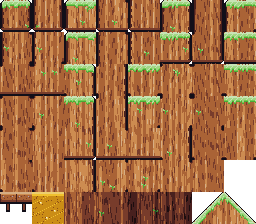
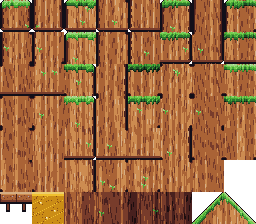
Pass 503: shade and vary the grass fringe so it stops reading as a flat band
The green/cyan moss fringe on every ground tile (cap_moss) painted its top rows
in a single brightest shade, so a run of floor tiles read as one flat bright
band — the pass-500 independent-grade defect. It now paints lit grass: the
brightest shade only on the tips of taller blades, a ramp stepping down to a
dark root line where the grass meets the soil, and a per-tile value shift
(lush/normal/sparse) so a floor reads as patches, not a stripe.

Code-first: only the eight moss-capped tilesets change (the other zones and the
backdrops are byte-only Pillow churn and were reverted). Reviewed by eye at 1x
and 4x in deep_roots, source_hall and lampwick. Bible 12.7 added; three
mutation-checked cap_moss guards added to tools/art/test_tilegen.py. Full local
suite 8398 checks, 0 failed.

diff --git a/tools/art/test_tilegen.py b/tools/art/test_tilegen.py
@@ -1,12 +1,13 @@
 #!/usr/bin/env python3
-"""Guards for the backdrop gradient (design bible 12.6).
+"""Guards for the backdrop gradient (bible 12.6) and the moss cap (bible 12.7).
 
-These cover the pure gradient helpers in tilegen that shape every far layer's
-sky, so the moire dot-grid the independent grade flagged (pass 497/500/501) stays
-fixed. The game test suite is Godot-only and CI does not run Python unit tests;
-run this guard with `python tools/art/test_tilegen.py` after touching the
-gradient. Exit code is non-zero on the first failure, so it mutation-checks by a
-plain re-run.
+These cover the pure tilegen helpers that shape every far layer's sky (so the
+moire dot-grid the independent grade flagged at passes 497/500/501 stays fixed)
+and the grass fringe (`cap_moss`), so the flat bright-green band the pass-500
+grade flagged keeps its shaded ramp, dark root line and per-tile variation. The
+game test suite is Godot-only and CI does not run Python unit tests; run this
+guard with `python tools/art/test_tilegen.py` after touching either. Exit code
+is non-zero on the first failure, so it mutation-checks by a plain re-run.
 """
 import sys
 from pathlib import Path
@@ -75,6 +76,55 @@ def test_the_dither_is_noise_not_a_rigid_grid():
         matches = sum(1 for x in range(len(row) - shift) if row[x] == row[x + shift])
         rate = matches / (len(row) - shift)
         assert rate < 0.9, f"shift {shift}: {rate:.2f} of pixels repeat — reads as a grid, not grain"
+
+
+def _moss_indices(seed, light="leaf", top=5):
+    """Every (x, y, shade-index) of `light` painted by one cap_moss tile."""
+    img = tg.Image.new("RGBA", (tg.T, tg.T), tg.CLEAR)
+    tg.cap_moss(img, 0, 0, seed, 0, tg.T, light, None, top)
+    names = {v[:3]: k for k, v in tg.PAL.items()}
+    out = []
+    for x in range(tg.T):
+        for y in range(tg.T):
+            px = img.getpixel((x, y))
+            if px[3] == 0:
+                continue
+            name = names.get(px[:3])
+            if name is None:
+                continue
+            ramp, i = name.rsplit("-", 1)
+            if ramp == light:
+                out.append((x, y, int(i)))
+    return out
+
+
+def test_cap_moss_is_a_shaded_ramp():
+    # The fringe must span several shades, not paint one flat bright band
+    # (mutating the body to a single shade fails here).
+    idx = {k for _, _, k in _moss_indices(11)}
+    assert len(idx) >= 3, f"the moss cap ramps through >=3 shades, got {sorted(idx)}"
+
+
+def test_cap_moss_darkens_to_a_root_line():
+    # Grass is lit at the tips and dark where it roots into the soil: the lowest
+    # painted row is darker than the highest. (Flattening the ramp fails this.)
+    px = _moss_indices(11)
+    top_y = min(y for _, y, _ in px)
+    bot_y = max(y for _, y, _ in px)
+    top_mean = sum(k for _, y, k in px if y == top_y) / sum(1 for _, y, _ in px if y == top_y)
+    bot_mean = sum(k for _, y, k in px if y == bot_y) / sum(1 for _, y, _ in px if y == bot_y)
+    assert bot_mean < top_mean, f"the root line ({bot_mean:.1f}) is darker than the tips ({top_mean:.1f})"
+
+
+def test_cap_moss_varies_per_tile():
+    # The per-tile value shift must actually change a tile's overall brightness,
+    # so a run of ground tiles reads as patches, not one stripe. Across a dozen
+    # seeds the mean shade should span ~2 steps; setting tilt to 0 fails this.
+    means = []
+    for seed in range(11, 11 + 12):
+        px = _moss_indices(seed)
+        means.append(sum(k for _, _, k in px) / len(px))
+    assert max(means) - min(means) >= 1.0, f"per-tile brightness barely moves: {min(means):.2f}..{max(means):.2f}"
 
 
 def main():

diff --git a/tools/art/tilegen.py b/tools/art/tilegen.py
@@ -312,23 +312,37 @@ def paint_bough(img, ox, oy, seed, ramp):
 
 
 def cap_moss(img, ox, oy, seed, x0, x1, light="leaf", glow=None, top=5):
-    """A ragged cap of moss over the top edge: blades of uneven height, a lit
-    fringe, and a dark under-edge where it meets the ground."""
+    """A ragged cap of moss over the top edge: blades of uneven height whose
+    tips catch the light, a body that deepens shade by shade into a dark root
+    line where it meets the ground, and a per-tile value shift so a run of
+    ground tiles never paints one flat bright band."""
+    def shade(k):
+        return c(f"{light}-{max(0, top - k)}")
+    # A per-tile value shift (lush / normal / sparse patches) breaks the uniform
+    # stripe that read as a single bright fringe across a whole floor: about half
+    # the tiles sit a shade deeper and a fifth two shades deeper.
+    t = hash2(seed, 0, 44)
+    tilt = 2 if t > 0.80 else 1 if t > 0.45 else 0
     for x in range(x0, x1):
         depth = 6 + (2 if hash2(x // 2, 0, seed) > 0.55 else 0) + (1 if hash2(x, 5, seed) > 0.85 else 0)
         blade = 1 if hash2(x, 6, seed) > 0.7 else 0
+        # Only taller, lit blades catch the brightest shade on their very tip.
+        tip_lit = blade and hash2(x, 8, seed) > 0.5
+        col_jit = 1 if hash2(x, 4, seed) > 0.78 else 0  # the odd deeper blade
         for y in range(depth):
             if y == 0 and blade == 0 and hash2(x, 7, seed) > 0.6:
                 continue  # a ragged top
-            if y <= 1:
-                col = f"{light}-{top}"
-            elif y < depth - 2:
-                col = f"{light}-{top - 1}" if (x + y) % 5 else f"{light}-{top}"
+            if y == 0 and tip_lit:
+                k = 0               # a lit tip, the only truly bright pixels
+            elif y <= 1:
+                k = 1               # upper blade
+            elif y < depth - 3:
+                k = 2 if (x + y) % 4 else 1   # mid body, mostly a shade down
             elif y < depth - 1:
-                col = f"{light}-{top - 2}"
+                k = 3               # lower body, in shadow
             else:
-                col = f"{light}-{top - 3}"
-            img.putpixel((ox + x, oy + y), c(col))
+                k = 4               # a dark root line into the soil
+            img.putpixel((ox + x, oy + y), shade(k + tilt + col_jit))
         if glow and hash2(x // 2, 3, seed) > 0.88:
             img.putpixel((ox + x, oy + depth), c(glow))
             if x % 2 == 0:

diff --git a/docs/loop/pass-503.md b/docs/loop/pass-503.md
@@ -1,0 +1,96 @@
+# Pass 503: shade and vary the grass fringe on floors and ledges
+
+## Category
+
+Art / World, from the independent-grade queue — not the rubric rotation. Art outranks the rotation
+when the queue holds no fresh Sean note (none this pass; all three notes are answered), and the
+headline art item (the PixelLab guardian bases) is **blocked**: three bases already wait for Sean's OK
+(Haar Wyrm, Thane Vorrund, Drowned Warden), the limit of three, and no note frees a slot. The hero
+sprite (the grade's top defect) would be a fourth base, also over the limit. So this pass takes the
+next unblocked, code-first grade defect — one of the two pass-502's "Next" named for pass 503 — the
+**flat grass fringe**, flagged at the pass-500 grade:
+
+> The grass fringe on floors and ledges is one flat bright-green band with no shading or variation,
+> cheapening otherwise-moody rooms (haar_lampwick, deep_roots, source_hall). Give it a shaded ramp,
+> a darker root/under edge and a little per-tile variation; code-first.
+
+No generations and no base-approval gate; it touches every moss-capped zone.
+
+## What was built
+
+The green (or, in water zones, cyan) fringe on the top of every ground tile is the code-drawn
+`cap_moss` in `tools/art/tilegen.py`, shared by all eight moss-capped zones (gym, heartwood, haar,
+boughs, vorrhallow, evercrown, sunken, spires). The old version painted its **top two rows in the
+single brightest shade** of the light ramp and only dropped a shade near the base — so a run of ground
+tiles rendered as one uniform bright stripe. That is the band the grade saw.
+
+`cap_moss` now paints lit grass, not a stripe:
+
+- **A value ramp down each blade.** Only the taller, lit blades carry the brightest shade on their very
+  **tip**; the body steps down shade by shade (`top-1`, `top-2`, `top-3`) to a **dark root line**
+  (`top-4`, clamped at the ramp floor) where the grass roots into the soil. The bright pixels are now
+  sparse tips, not a solid top row, so the fringe has top-light and a shadowed base.
+- **Per-tile variation.** Each tile takes a value shift from its seed — lush (0), normal (−1) or sparse
+  (−2) at roughly 45 / 35 / 20 % — so a floor reads as patches of deeper and brighter grass instead of
+  one continuous band. A per-blade jitter deepens the odd column within a tile.
+
+This is **code-first**: no art is repainted, only `cap_moss` and the **eight** moss-capped
+`assets/tiles/<zone>.png` it regenerates. The stone-cap (hearthroot, trials) and girder-cap (tower)
+zones are untouched, and the parallax backdrops are untouched.
+
+## A determinism gotcha, handled
+
+On this PC a full `python tools/art/tilegen.py` run re-encodes **every** tileset and `<zone>_mid.png`
+with byte-different PNG bytes but **pixel-identical** output (a Pillow encoding difference, not a real
+change). Committing that churn would bury the real diff. So each regenerated PNG was compared to `HEAD`
+pixel-by-pixel, and only the files with a non-zero pixel diff were kept — the eight moss tilesets,
+2410–2856 changed pixels each. Every byte-only file (all ten `*_mid.png`, plus hearthroot / tower /
+trials tilesets) was reverted with `git checkout`. The PR carries only real pixel changes.
+
+## Checks
+
+- **Verified by eye** at 1x (actual game zoom) and 4x, old vs new, in the three rooms the grade named —
+  `heartwood/deep_roots` (green, `top`=4), `sunken/source_hall` (cyan, `top`=3) and `haar/lampwick`
+  (green, `top`=3). The green floor now reads as shaded patches of lush and sparse grass with lit tips
+  and a dark rooted base, not a uniform bright line; the cyan ledge rim varies along its length without
+  muddying, and the separate waterline is untouched; haar (already a dim fog green) gains subtle
+  variation with no regression.
+- **`tools/art/test_tilegen.py`** (now 10 checks, 3 new) guards `cap_moss`: the cap ramps through ≥3
+  shades, the lowest painted row is darker than the highest (tips lit, root dark), and the per-tile
+  value shift spans ≥1 shade across a dozen seeds. The game suite is Godot-only and CI runs no Python
+  unit tests, so this is a local art-tool guard — run it with `python tools/art/test_tilegen.py`.
+  Mutation-checked: setting `tilt` to 0 drops the per-tile spread to 0.27 and fails the variation
+  check; flattening the body ramp to one shade fails the ramp and root-line checks.
+- Full local Godot suite green (below); CI test + mix green; no test loads the tileset PNGs, so the
+  regenerated art does not touch the suite.
+
+## Rubric (design bible 15.3)
+
+| Category | Weight | Score | Notes |
+| --- | --- | --- | --- |
+| Movement feel | 20 | 99 | Unchanged. |
+| Combat and enemies | 15 | 99 | Unchanged. |
+| World and level design | 15 | 99 | Unchanged. |
+| Art cohesion | 15 | 92 | The grass fringe is shaded and varied instead of a flat bright band, so floors and ledges read as lit grass rather than a stickered strip. With pass 500's rim shading, pass 501's atmospheric perspective and pass 502's softened sky, the environment art keeps tightening; the hero and guardian HD bases remain the open gap (gated art loop). |
+| Bosses | 10 | 99 | Unchanged. |
+| Systems | 10 | 99 | Unchanged. |
+| Audio | 5 | 99 | Unchanged. |
+| Stability and performance | 5 | 99 | Pure asset change; no runtime cost. |
+| Story and world | 5 | 99 | Unchanged. |
+
+Weighted: 97.95.
+
+## Next
+
+Pass 504: the art loop stays gated on Sean — three guardian bases (Haar Wyrm, Thane Vorrund, Drowned
+Warden) wait for his OK, the limit of three, so no new base can be made until he approves one. Until
+then, the other code-first grade defect pass-502's "Next" named: **tile variants / grid banding** (brick
+and wall fields still tile obviously — add atlas variants in `tilegen` so the repeat unit stops
+reading). After that, the larger room-and-decor defects — **empty midgrounds** and **flat directionless
+lighting** — and the **zone-to-zone incoherence** (unify outline weight and light direction across zone
+tilesets, pull base hues toward the master palette). The hero sprite (the grade's top defect) needs
+PixelLab and would be a fourth base — held until a slot frees.
+
+For Sean (carried from pass 498, still open): the rain sheet won, so the **Haar marshes** could take a
+thin, slow drizzle to suit the fog, and the High Boughs an even fainter mist-rain — say the word and a
+pass wires it in.

diff --git a/docs/design-bible.md b/docs/design-bible.md
@@ -1569,6 +1569,15 @@ the style guide, section 8.
 
 The sky of every painted far layer (`<zone>_far.png`) is a palette-locked vertical gradient from `tilegen.gradient(top, bottom)`. **Ramp, not a two-colour screen (pass 502):** the gradient is a ramp of several master-palette colours between `top` and `bottom` (`gradient_ramp`, each step the nearest palette match to an even RGB interpolation), and a pixel is dithered only across the thin seam between two *adjacent* ramp colours (`gradient_pixel`), using value noise (`hash2`), not a fixed ordered grid. Because the dither mixes near-identical neighbours from noise rather than a rigid 50/50 screen of the two far-apart endpoints, a transition reads as a soft grain — never the uniform dot/crosshatch dither grid that the independent grade flagged as flat moire across the midground (pass 497/500/501). This is code-first: no art is repainted, and the output stays deterministic (`hash2` is pure), so the committed PNGs do not churn.
 
+### 12.7 Grass fringe (moss cap)
+
+The green (or, for water zones, cyan) fringe on the top of every ground tile and ledge is the code-drawn `cap_moss` (`tools/art/tilegen.py`), used by all moss-capped zones (gym, heartwood, haar, boughs, vorrhallow, evercrown, sunken, spires). **Shaded, rooted and varied (pass 503):** the cap is not one flat bright band — the independent grade (pass 500) flagged the old version as "one flat bright-green band with no shading or variation," cheapening otherwise-moody rooms. It now reads as lit grass:
+
+- **A value ramp down each blade.** Only the taller, lit blades carry the brightest shade on their very tip; the body steps down shade by shade to a **dark root line** where the grass meets the soil, so the fringe has top-light and a shadowed base rather than a uniform top row.
+- **Per-tile variation.** Each tile takes a value shift (lush / normal / sparse, roughly 45% / 35% / 20%) from its seed, so a run of ground tiles reads as patches of deeper and brighter grass instead of one continuous stripe. A per-blade jitter deepens the odd column within a tile.
+
+Code-first and deterministic: only the eight moss-capped tilesets change, no art is repainted, and `tools/art/test_tilegen.py` guards the ramp, the root line and the per-tile shift.
+
 ---
 
 ## 13. Asset Production Plan
